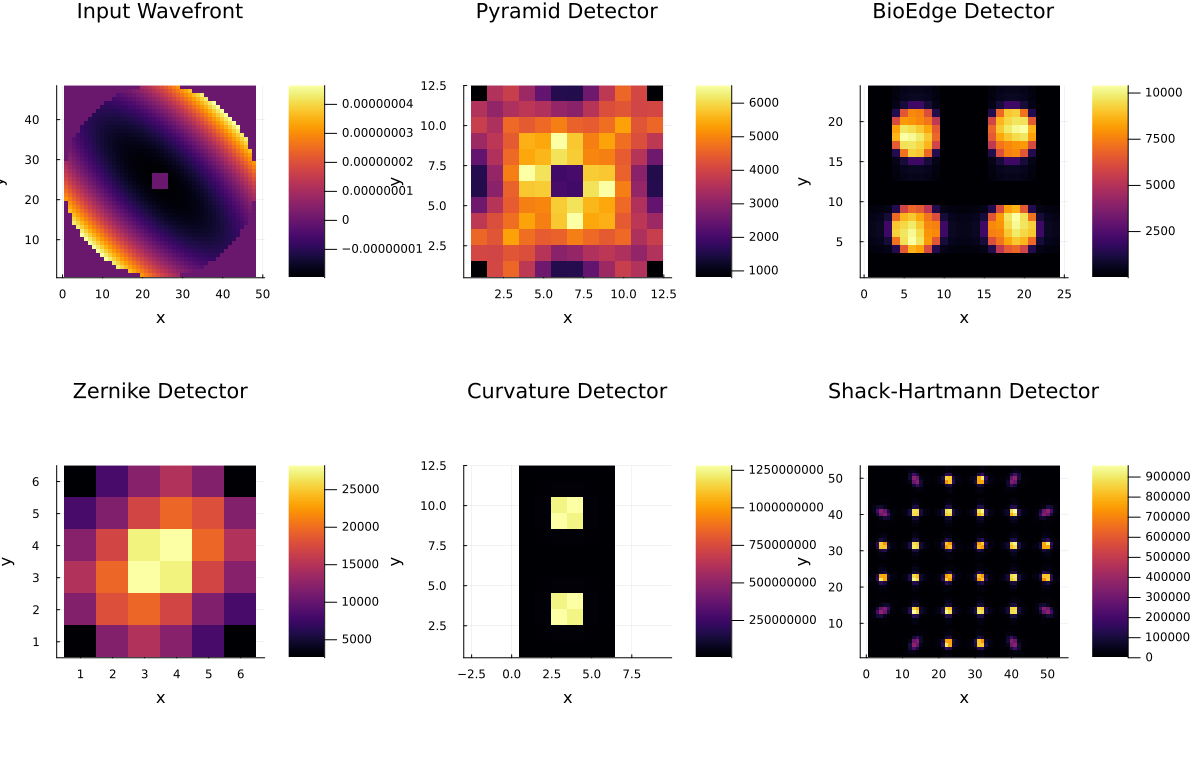
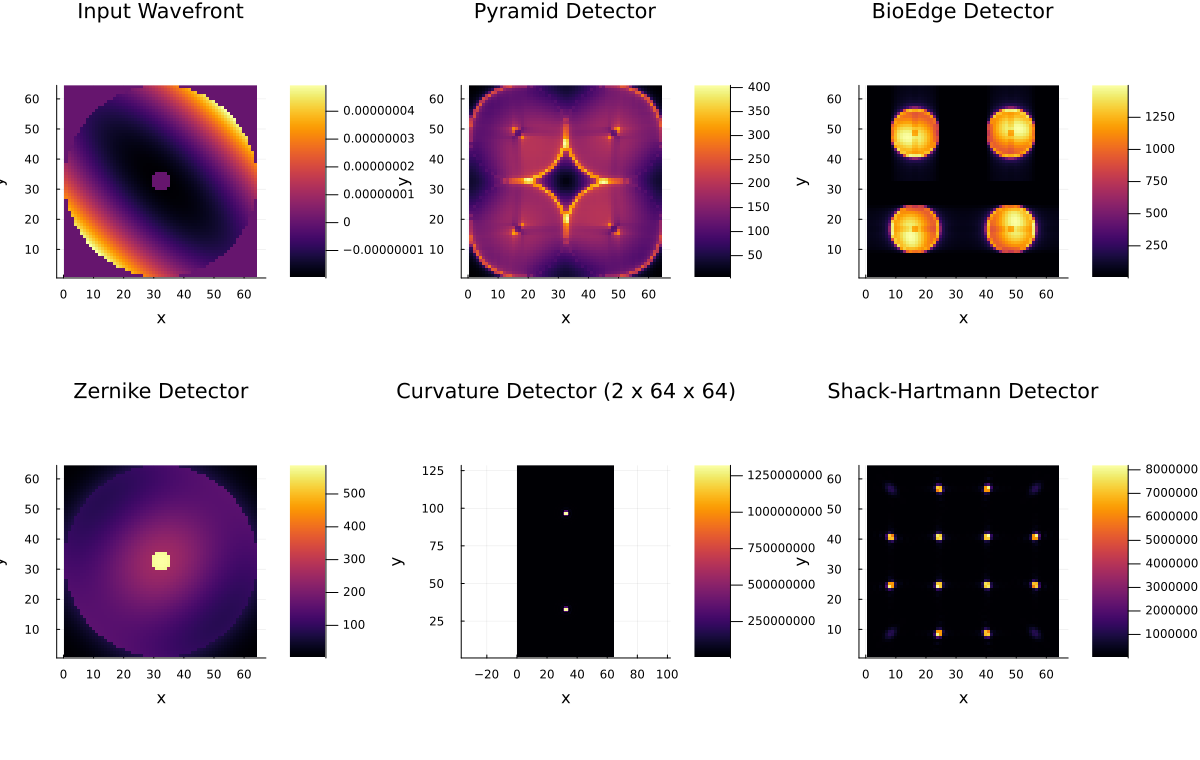
Use realistic WFS detector plot sizes

diff --git a/README.md b/README.md
@@ -55,7 +55,9 @@ Shack-Hartmann renders the core detector mosaic assembled from its lenslet spot
 cube. If the detector was configured with a typed digital export such as
 `Detector(bits=12, full_well=30_000.0, output_type=UInt16)`, the plot displays
 that already-quantized ADU image; plotting does not rescale or reinterpret the
-detector output contract.
+detector output contract. Shack-Hartmann detector mosaics default to adjacent
+subaperture images with no artificial separator pixels; pass `gap=N` only for a
+diagnostic layout.
 
 ## Preview
 
@@ -98,7 +100,7 @@ The quick visual examples are:
 - `examples/dm_visual.jl`: grid and sampled DM command/OPD views.
 - `examples/wfs_visual.jl`: Pyramid frame plus Pyramid and Shack-Hartmann signals.
 - `examples/shack_hartmann_detector_mosaic_visual.jl`: detector-like Shack-Hartmann lenslet spot mosaic.
-- `examples/wfs_detector_comparison_visual.jl`: one wavefront viewed through Pyramid, BioEdge, Zernike, Curvature, and Shack-Hartmann detector frames.
+- `examples/wfs_detector_comparison_visual.jl`: one wavefront viewed through Pyramid, BioEdge, Zernike, Curvature, and Shack-Hartmann detector frames with 64x64-class camera readouts.
 - `examples/closed_loop_runtime_visual.jl`: runtime WFS frame, science frame, and signal trace.
 
 The OOPAO-style tutorial examples are:
